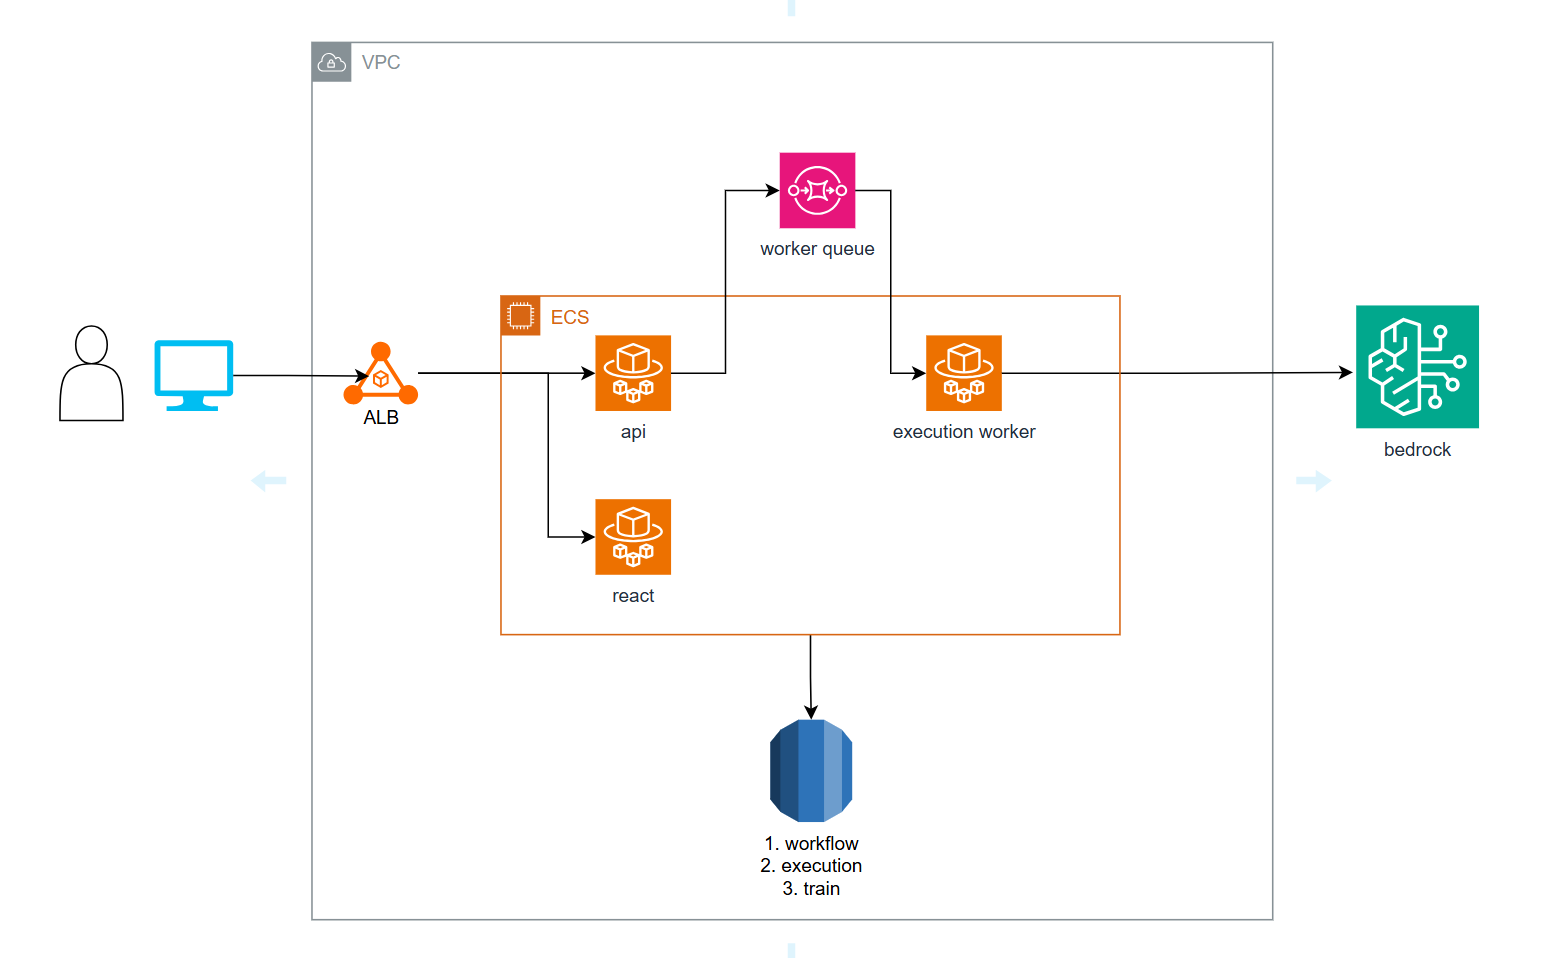
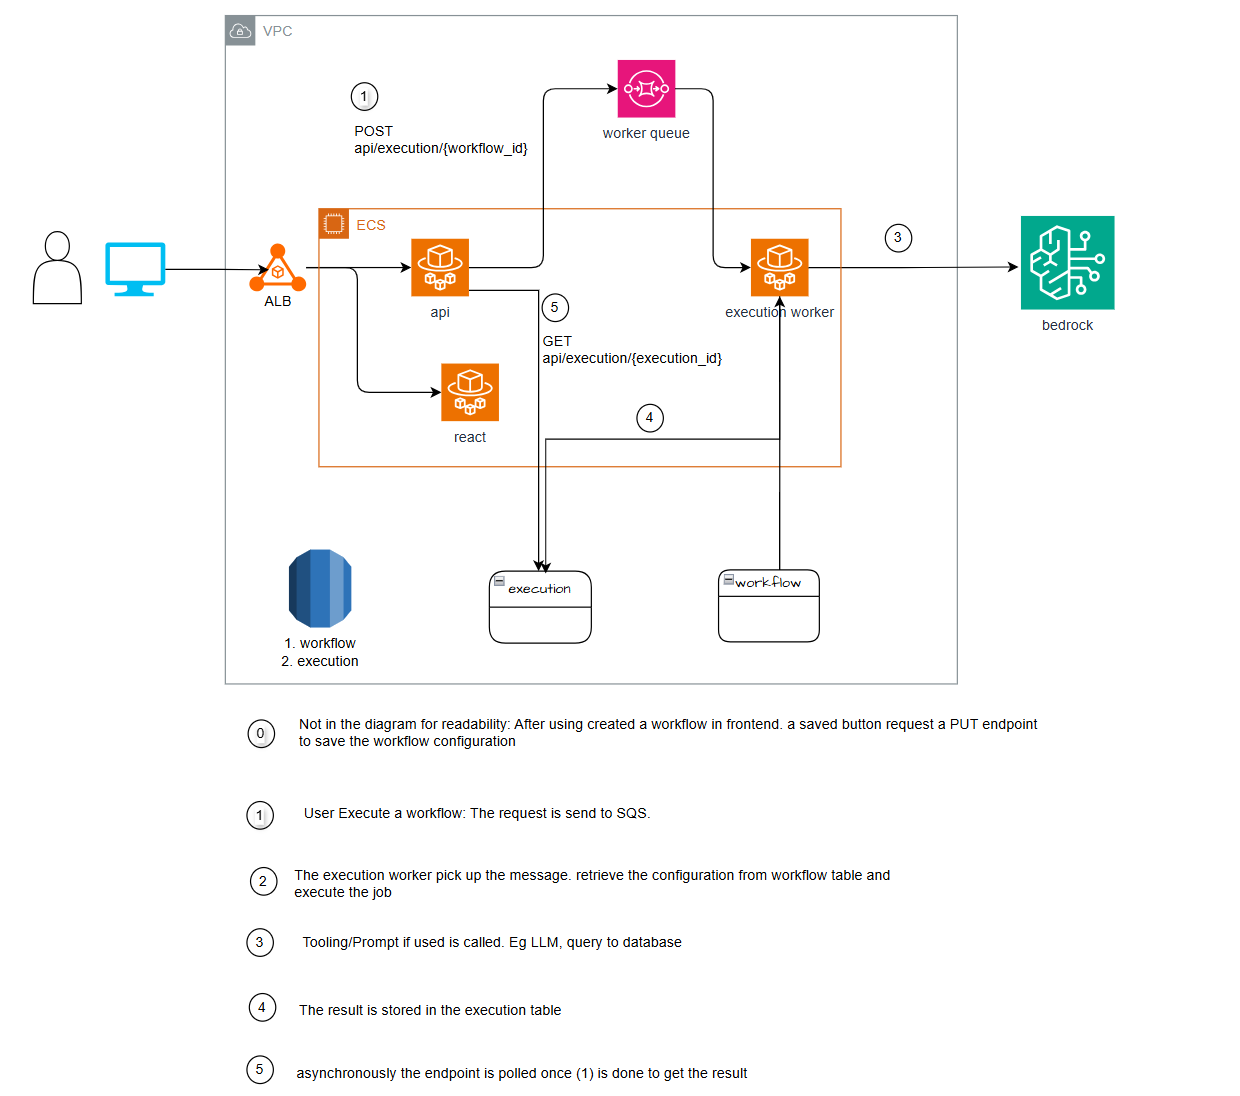
modify read me

diff --git a/README.md b/README.md
@@ -18,6 +18,22 @@ docker compose up --build
 
 4. Open http://localhost:3000
 
+## Background
+
+This project is a simplified **Micro-Agent Workflow Builder** that enables users to create sequential AI workflows by chaining together configurable nodes. The application demonstrates how agentic pipelines can combine user input, tool execution, and LLM reasoning to answer domain-specific questions.
+
+The workflow builder is centered around a sample use case using the Toronto Subway Delay Dataset. Users can submit natural language questions such as:
+
+“What were the main causes of delays at Union Station last Tuesday?”
+
+A typical workflow execution consists of:
+
+Input Node — captures the user query.
+Tool Node — queries a local subway delay database or performs analytical operations such as calculating average delays.
+Prompt Node — combines the original question with tool outputs and generates a human-readable response using an LLM prompt.
+
+The system supports dynamic workflow construction where users can add, remove, and reorder nodes within the pipeline. Variables produced by earlier nodes can be referenced by downstream nodes, enabling chained reasoning and tool-calling behavio
+
 ## System Architecture
 
 ![System Architecture](docs/diagrams/system_diagram.png)
@@ -52,7 +68,7 @@ sequenceDiagram
 
     %% --- Run ---
     User->>Web: Click Run
-    Web->>API: POST /executions { workflow_id }
+    Web->>API: POST /executions/{workflow_id}
     API->>DB: INSERT execution (status=running)
     API->>Q: Enqueue job
     API-->>Web: 202 { id, status: running }